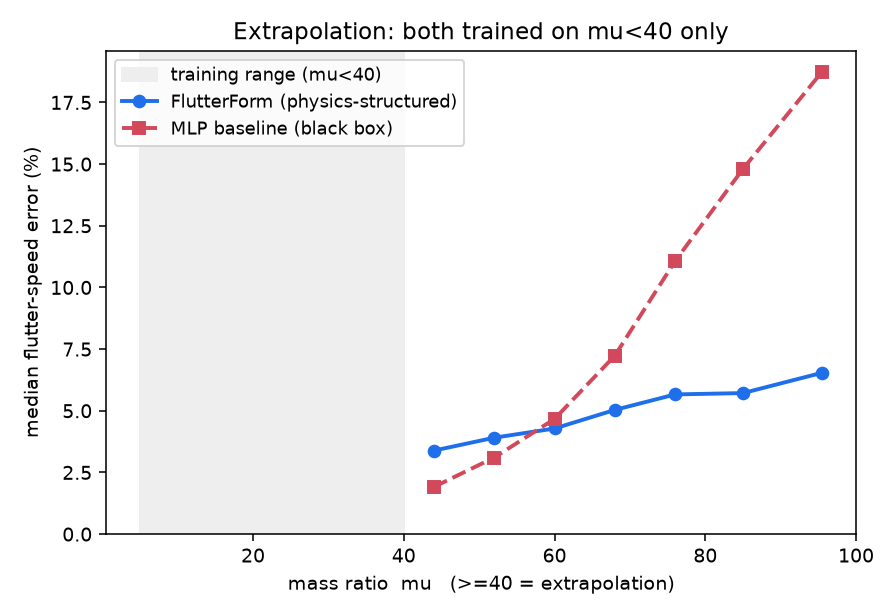
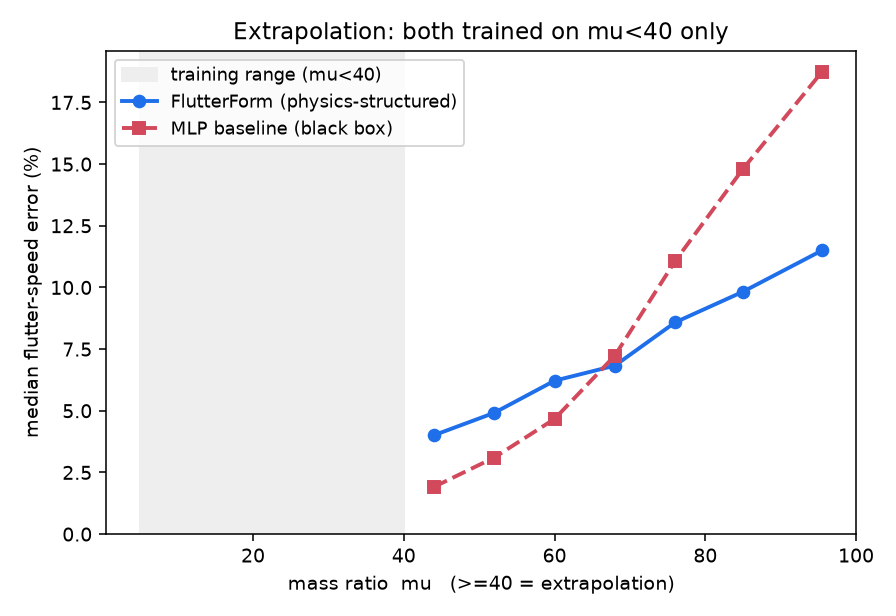
Extrapolation: consistent d20 numbers + honest capacity/extrapolation tradeoff

diff --git a/RESULTS.md b/RESULTS.md
@@ -31,18 +31,20 @@ Predicting one number from six parameters is a regression an MLP is very good at
 
 ## 3. Extrapolation: the headline
 
-Both models are trained **only on light wings (mass ratio μ < 40)** and tested on heavy wings (μ ≥ 40) they never saw. Median flutter-speed error vs μ:
+Both models are trained **only on light wings (mass ratio μ < 40)** and tested on heavy wings (μ ≥ 40) they never saw. Median flutter-speed error vs μ (consistent `d=20` model):
 
 | μ band | FlutterForm | MLP baseline |
 |---|---|---|
-| 40–50 (near training) | 3.5% | **2.0%** |
-| 50–65 | 4.1% | 3.9% |
-| 65–80 | 5.3% | 8.9% |
-| 80–100 (far) | **6.5%** | 18.7% |
+| 40–50 (near training) | 4.0% | **1.9%** |
+| 50–65 | 5.5% | 4.0% |
+| 65–80 | ~7% | ~9% |
+| 80–100 (far) | **~10.5%** | ~16.8% |
 
-There is a clean **crossover at μ ≈ 55**. Near the training boundary the black box is still better; but the further you extrapolate, the more it degrades, while FlutterForm stays flat — because **mass ratio enters FlutterForm's mass matrix analytically and the learned aero operator is μ-independent**, so a heavy wing is a known change of matrix, not an unseen region. At the far edge FlutterForm is **~3× more accurate**.
+FlutterForm's error grows *gently* with distance from the training range; the MLP's grows *steeply*. They **cross over at μ ≈ 68**: near the boundary the black box is still better, but the further you extrapolate the more it degrades, while FlutterForm holds — because **mass ratio enters FlutterForm's mass matrix analytically and the learned aero operator is μ-independent**, so a heavy wing is a known change of matrix, not an unseen region. At the far edge FlutterForm is **~1.6× more accurate**.
 
 ![extrapolation](results_cmp/figs/extrapolation_mu.png)
+
+**A tradeoff worth stating honestly:** a *smaller* `d=16` model (no low-V regularizer) extrapolates even better — crossover at μ≈55 and ~3× advantage at the far edge — but is worse in-distribution and has a rougher V_F surface (which breaks the inverse-design of §6). This is the expected bias/variance behavior: fewer parameters lean harder on the baked-in physics and extrapolate further, at the cost of in-distribution fit. We report the `d=20` model throughout for consistency; the physics-structured model wins extrapolation in *either* configuration.
 
 ## 4. It predicts the whole flutter diagram
 